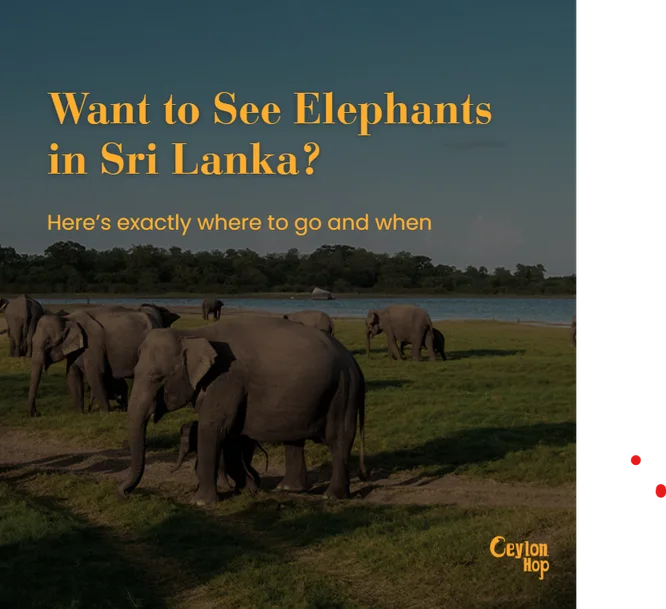
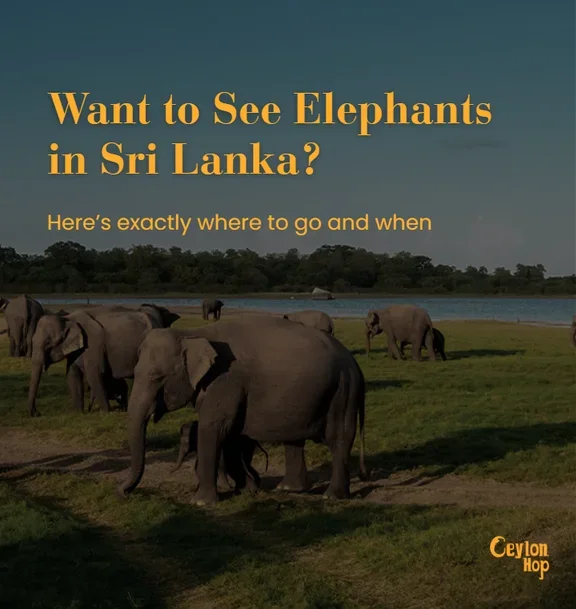
Fix image sizing and spacing across sections
- Logos sized inside their cards; no overflow
- Tighter section padding; balanced headings
- Larger 4:5 photo pairs; posters share one crop so edges line up
- Ceylon Hop grid: no cropped posts, chat spans right column, stats in a row
- Cropped stray strip off the elephants post; fixed bold headings turning cream

diff --git a/assets/style.css b/assets/style.css
@@ -228,6 +228,7 @@ a { color: inherit; }
   font: 400 clamp(28px, 2.7vw, 39px)/1.0 var(--f-garet);
   letter-spacing: -.02em; color: var(--blue); margin: 0;
 }
+.h-sauce, .h-garet, .h-garet-bold, .statement { text-wrap: balance; }
 .h-garet-bold {
   font: 700 clamp(40px, 4.75vw, 68px)/1.02 var(--f-garet);
   letter-spacing: -.035em; color: var(--text); margin: 0;
@@ -238,14 +239,14 @@ a { color: inherit; }
 .reveal.is-in { opacity: 1; transform: none; }
 
 /* ---------- 02 experience ---------- */
-.experience { background: var(--grey); padding: clamp(96px, 13vw, 190px) 0 clamp(80px, 10vw, 150px); }
+.experience { background: var(--grey); padding: clamp(88px, 10vw, 150px) 0 clamp(72px, 8vw, 120px); }
 .experience-grid { display: grid; grid-template-columns: 1.05fr 1fr; gap: clamp(32px, 4vw, 64px); align-items: center; }
 .experience-copy p { font-size: clamp(18px, 2.05vw, 29.6px); line-height: 1.17; letter-spacing: -.02em; margin: 0 0 1.15em; max-width: 21em; }
 .experience-grid > * { min-width: 0; }
 .logos { list-style: none; margin: 0; padding: 0; display: grid; grid-template-columns: 1fr 1fr; gap: clamp(12px, 1.6vw, 24px); }
 .logo {
-  position: relative; display: grid; place-items: center; min-width: 0;
-  height: clamp(110px, 11vw, 170px); padding: 6% 12% 12%;
+  position: relative; display: flex; align-items: center; justify-content: center; min-width: 0;
+  height: clamp(116px, 11.5vw, 168px); padding: clamp(12px, 1.2vw, 18px) clamp(20px, 2.4vw, 36px);
   background: var(--white); border-radius: 18px;
   box-shadow: 0 1px 0 rgba(0, 0, 0, .04);
   transition: transform .5s var(--ease), box-shadow .5s var(--ease), opacity .9s var(--ease);
@@ -257,7 +258,7 @@ a { color: inherit; }
   opacity: 0; transition: opacity .3s, translate .3s var(--ease);
 }
 .logo:hover { transform: translateY(-6px) rotate(-1deg); box-shadow: 0 18px 40px rgba(5, 24, 128, .14); }
-.logo:hover img { transform: scale(.9) translateY(-8px); }
+.logo:hover img { transform: scale(.82) translateY(-10px); }
 .logo:hover span { opacity: 1; translate: -50% 0; }
 
 /* ---------- marquee ---------- */
@@ -273,7 +274,7 @@ a { color: inherit; }
 @keyframes marquee { to { transform: translateX(-50%); } }
 
 /* ---------- case studies (pages 3–5) ---------- */
-.case { background: var(--white); padding: clamp(80px, 9vw, 140px) 0; position: relative; }
+.case { background: var(--white); padding: clamp(64px, 7vw, 112px) 0; position: relative; }
 .case + .case { border-top: 1px solid #eee; }
 .case-grid > * { min-width: 0; }
 .case-grid { display: grid; grid-template-columns: minmax(260px, .62fr) 1fr; gap: clamp(32px, 4.5vw, 72px); align-items: start; }
@@ -288,6 +289,7 @@ a { color: inherit; }
 .cover-art, .phone { display: block; width: 100%; max-width: 330px; border-radius: 4px; overflow: hidden; }
 .cover-art { box-shadow: 8px 8px 0 rgba(0, 0, 0, .12); }
 .cover-art img, .phone img, .shot img, .poster img { width: 100%; transition: transform .8s var(--ease); }
+.poster img { height: 100%; object-fit: cover; }
 .cover-art:hover img, .phone:hover img { transform: scale(1.04); }
 .phone { max-width: 240px; border-radius: 26px; border: 7px solid #111; box-shadow: 0 30px 60px rgba(0, 0, 0, .18); }
 
@@ -301,13 +303,13 @@ a { color: inherit; }
 
 .results {
   display: inline-flex; flex-wrap: wrap; gap: .25em .4em; align-items: baseline;
-  margin: 28px 0 40px; padding: 10px 24px; border-radius: 999px;
+  margin: 24px 0 32px; padding: 10px 24px; border-radius: 999px;
   background: var(--pill); color: var(--blue);
   font: 700 clamp(16px, 1.43vw, 20.6px)/1.4 var(--f-body); letter-spacing: -.01em;
 }
 .results b { font-variant-numeric: tabular-nums; }
 
-.chips { display: flex; flex-wrap: wrap; gap: clamp(12px, 2.2vw, 32px); justify-content: center; margin: 30px 0 clamp(36px, 6vw, 90px); }
+.chips { display: flex; flex-wrap: wrap; gap: clamp(10px, 1.6vw, 24px); justify-content: center; margin: 28px 0 clamp(28px, 3vw, 44px); }
 .chip {
   font: 700 clamp(16px, 1.6vw, 23px) var(--f-sauce); letter-spacing: -.02em; color: var(--blue);
   background: var(--pill); padding: .45em 1.6em; border-radius: 999px;
@@ -315,7 +317,8 @@ a { color: inherit; }
 }
 .chip:hover, .chip.is-on { background: var(--blue); color: var(--cream); transform: translateY(-3px); }
 
-.pair { display: grid; grid-template-columns: 1fr 1fr; gap: clamp(16px, 3.6vw, 52px); padding: 0 clamp(0px, 3vw, 46px); }
+.pair { display: grid; grid-template-columns: 1fr 1fr; gap: clamp(14px, 2.4vw, 36px); }
+.pair .shot { aspect-ratio: 4 / 5; }
 .shot { display: block; border-radius: var(--radius); overflow: hidden; aspect-ratio: 1 / 1; background: #eee; transform-style: preserve-3d; }
 .shot img { height: 100%; object-fit: cover; }
 .shot:hover img { transform: scale(1.05); }
@@ -339,7 +342,7 @@ a { color: inherit; }
 .screen figcaption b { color: #fff; }
 
 /* ---------- concepts (pages 6 and 8) ---------- */
-.concepts { position: relative; background: var(--grey); padding: clamp(80px, 9vw, 140px) 0 clamp(70px, 8vw, 120px); overflow: hidden; }
+.concepts { position: relative; background: var(--grey); padding: clamp(64px, 7vw, 112px) 0 clamp(60px, 6vw, 96px); overflow: hidden; }
 .texture {
   position: absolute; right: -6%; top: 18%; width: 95%; aspect-ratio: 1365 / 735;
   background: url(img/texture.webp) center / contain no-repeat;
@@ -347,10 +350,10 @@ a { color: inherit; }
   transform: translateY(calc(var(--sy, 0) * -60px)) rotate(calc(var(--sy, 0) * 4deg));
 }
 .concepts .wrap { position: relative; }
-.lede { max-width: 52em; font-size: clamp(16px, 1.39vw, 20px); line-height: 1.4; margin: 14px 0 clamp(48px, 7vw, 110px); }
+.lede { max-width: 52em; font-size: clamp(16px, 1.39vw, 20px); line-height: 1.4; margin: 14px 0 clamp(36px, 5vw, 72px); }
 .fan { display: grid; grid-template-columns: repeat(3, 1fr); gap: clamp(16px, 3.6vw, 52px); }
 .poster {
-  display: block; overflow: hidden; background: #ddd;
+  display: block; overflow: hidden; background: #ddd; aspect-ratio: 4 / 5;
   box-shadow: 0 24px 50px rgba(0, 0, 0, .18);
   transform: rotate(var(--r, 0deg));
   transition: transform .7s var(--ease), box-shadow .7s var(--ease), filter .5s, opacity .9s var(--ease);
@@ -362,12 +365,11 @@ a { color: inherit; }
 .fan:hover .poster:nth-child(3) { transform: rotate(9deg) translateX(6%); }
 .fan .poster:hover { filter: none; transform: rotate(0) translateY(-14px) scale(1.06) !important; z-index: 2; box-shadow: 0 40px 80px rgba(0, 0, 0, .3); }
 .hint { margin: 36px 0 0; font: 700 12px var(--f-sauce); letter-spacing: .14em; text-transform: uppercase; color: #888; text-align: center; }
-.trio { display: grid; grid-template-columns: repeat(3, 1fr); gap: clamp(16px, 4vw, 64px); align-items: center; }
-.trio .poster:nth-child(2) { margin-top: 2%; }
+.trio { display: grid; grid-template-columns: repeat(3, 1fr); gap: clamp(16px, 3.6vw, 52px); align-items: start; }
 .poster--flat { transform: none; box-shadow: 0 16px 40px rgba(0, 0, 0, .12); }
 .poster--flat.reveal { transform: translateY(40px); }
 .poster--flat.reveal.is-in { transform: none; }
-.concepts--ciao .lede { margin-bottom: clamp(48px, 9vw, 160px); }
+
 
 /* ---------- 07 Ceylon Hop (page 7) ---------- */
 .hop { display: grid; grid-template-columns: 46.2% 1fr; background: var(--white); }
@@ -383,13 +385,22 @@ a { color: inherit; }
   background: var(--cream); transition: transform .4s var(--ease), background .3s;
 }
 .hop-list li:hover::before { transform: scale(2.2); background: var(--accent); }
-.hop-main { position: relative; padding: clamp(24px, 2.4vw, 34px); overflow: hidden; }
+.hop-main { position: relative; padding: clamp(24px, 2.4vw, 34px); overflow: hidden; display: flex; flex-direction: column; justify-content: center; }
 .hop-main .texture { top: 4%; right: -30%; width: 140%; }
 .hop-grid { position: relative; display: grid; grid-template-columns: 1fr 1fr; gap: clamp(14px, 2vw, 28px); align-items: start; }
+.hop-grid > .chat { grid-column: 2; grid-row: 1 / span 2; align-self: stretch; }
+.hop-grid > .insights { grid-column: 1 / -1; flex-direction: row; gap: clamp(16px, 2vw, 32px); }
+.hop-grid > .insights .insights-row { flex: 1; flex-direction: column; justify-content: flex-start; gap: 6px; padding: 4px 0 4px clamp(14px, 1.6vw, 24px); border-left: 1px solid #2a2d33; }
+.hop-grid > .insights .insights-row:first-child { border-left: 0; padding-left: 0; }
+.hop-grid > .insights .num { text-align: left; }
+.hop-grid > .insights .insights-row--head { font-size: clamp(14px, 1.3vw, 19px); }
+.hop-grid > .insights .insights-row--head > span:first-child { white-space: nowrap; }
 .hop-grid .shot { border-radius: 0; aspect-ratio: auto; }
 .hop-grid .shot img { height: auto; }
 
-.chat { background: #dfe8e6 url(img/ch-chat.webp) center / cover; padding: 7% 8%; align-self: stretch; display: flex; }
+.chat { position: relative; overflow: hidden; background: #dfe8e6; padding: 7% 8%; align-self: stretch; display: flex; }
+.chat::before { content: ""; position: absolute; inset: -30px; background: url(img/ch-chat.webp) center / cover; filter: blur(22px) saturate(1.1); opacity: .85; }
+.chat-phone { position: relative; }
 .chat-phone {
   flex: 1; display: flex; flex-direction: column; gap: 10px;
   background: rgba(255, 255, 255, .72); backdrop-filter: blur(14px);
@@ -421,7 +432,7 @@ a { color: inherit; }
 .chat-replay.is-on { opacity: 1; }
 
 .insights {
-  background: #0c0f14; color: #fff; padding: clamp(18px, 2vw, 28px); align-self: end;
+  background: #0c0f14; color: #fff; padding: clamp(18px, 2vw, 28px); display: flex; flex-direction: column; justify-content: center;
   font-family: system-ui, -apple-system, "Segoe UI", Roboto, sans-serif;
   border-top: 8px solid #2a2d33;
 }
@@ -440,7 +451,7 @@ a { color: inherit; }
   background: url(img/brush-dark.webp) center / cover no-repeat;
   transform: translateY(calc(var(--sy2, 0) * 60px));
 }
-.contact-inner { position: relative; text-align: center; padding-top: clamp(110px, 16vw, 230px); padding-bottom: clamp(70px, 9vw, 130px); }
+.contact-inner { position: relative; text-align: center; padding-top: clamp(88px, 11vw, 168px); padding-bottom: clamp(64px, 8vw, 112px); }
 .statement {
   font: 700 clamp(30px, 3.46vw, 50px)/1.06 var(--f-sauce); letter-spacing: -.03em;
   max-width: 16.5em; margin: 0 auto;
@@ -515,6 +526,10 @@ a { color: inherit; }
   .fan, .trio { grid-template-columns: 1fr; max-width: 420px; margin: 0 auto; }
   .fan:hover .poster:nth-child(n) { transform: rotate(var(--r)); }
   .hop-grid { grid-template-columns: 1fr; }
+  .hop-grid > .chat, .hop-grid > .insights { grid-column: auto; grid-row: auto; }
+  .hop-grid > .insights { flex-direction: column; }
+  .hop-grid > .insights .insights-row { flex-direction: row; justify-content: space-between; border-left: 0; padding-left: 0; }
+  .hop-grid > .insights .num { text-align: right; }
   .chat { min-height: 520px; }
   .results { border-radius: 20px; }
   .lightbox { grid-template-columns: 1fr; padding: 12px; }
